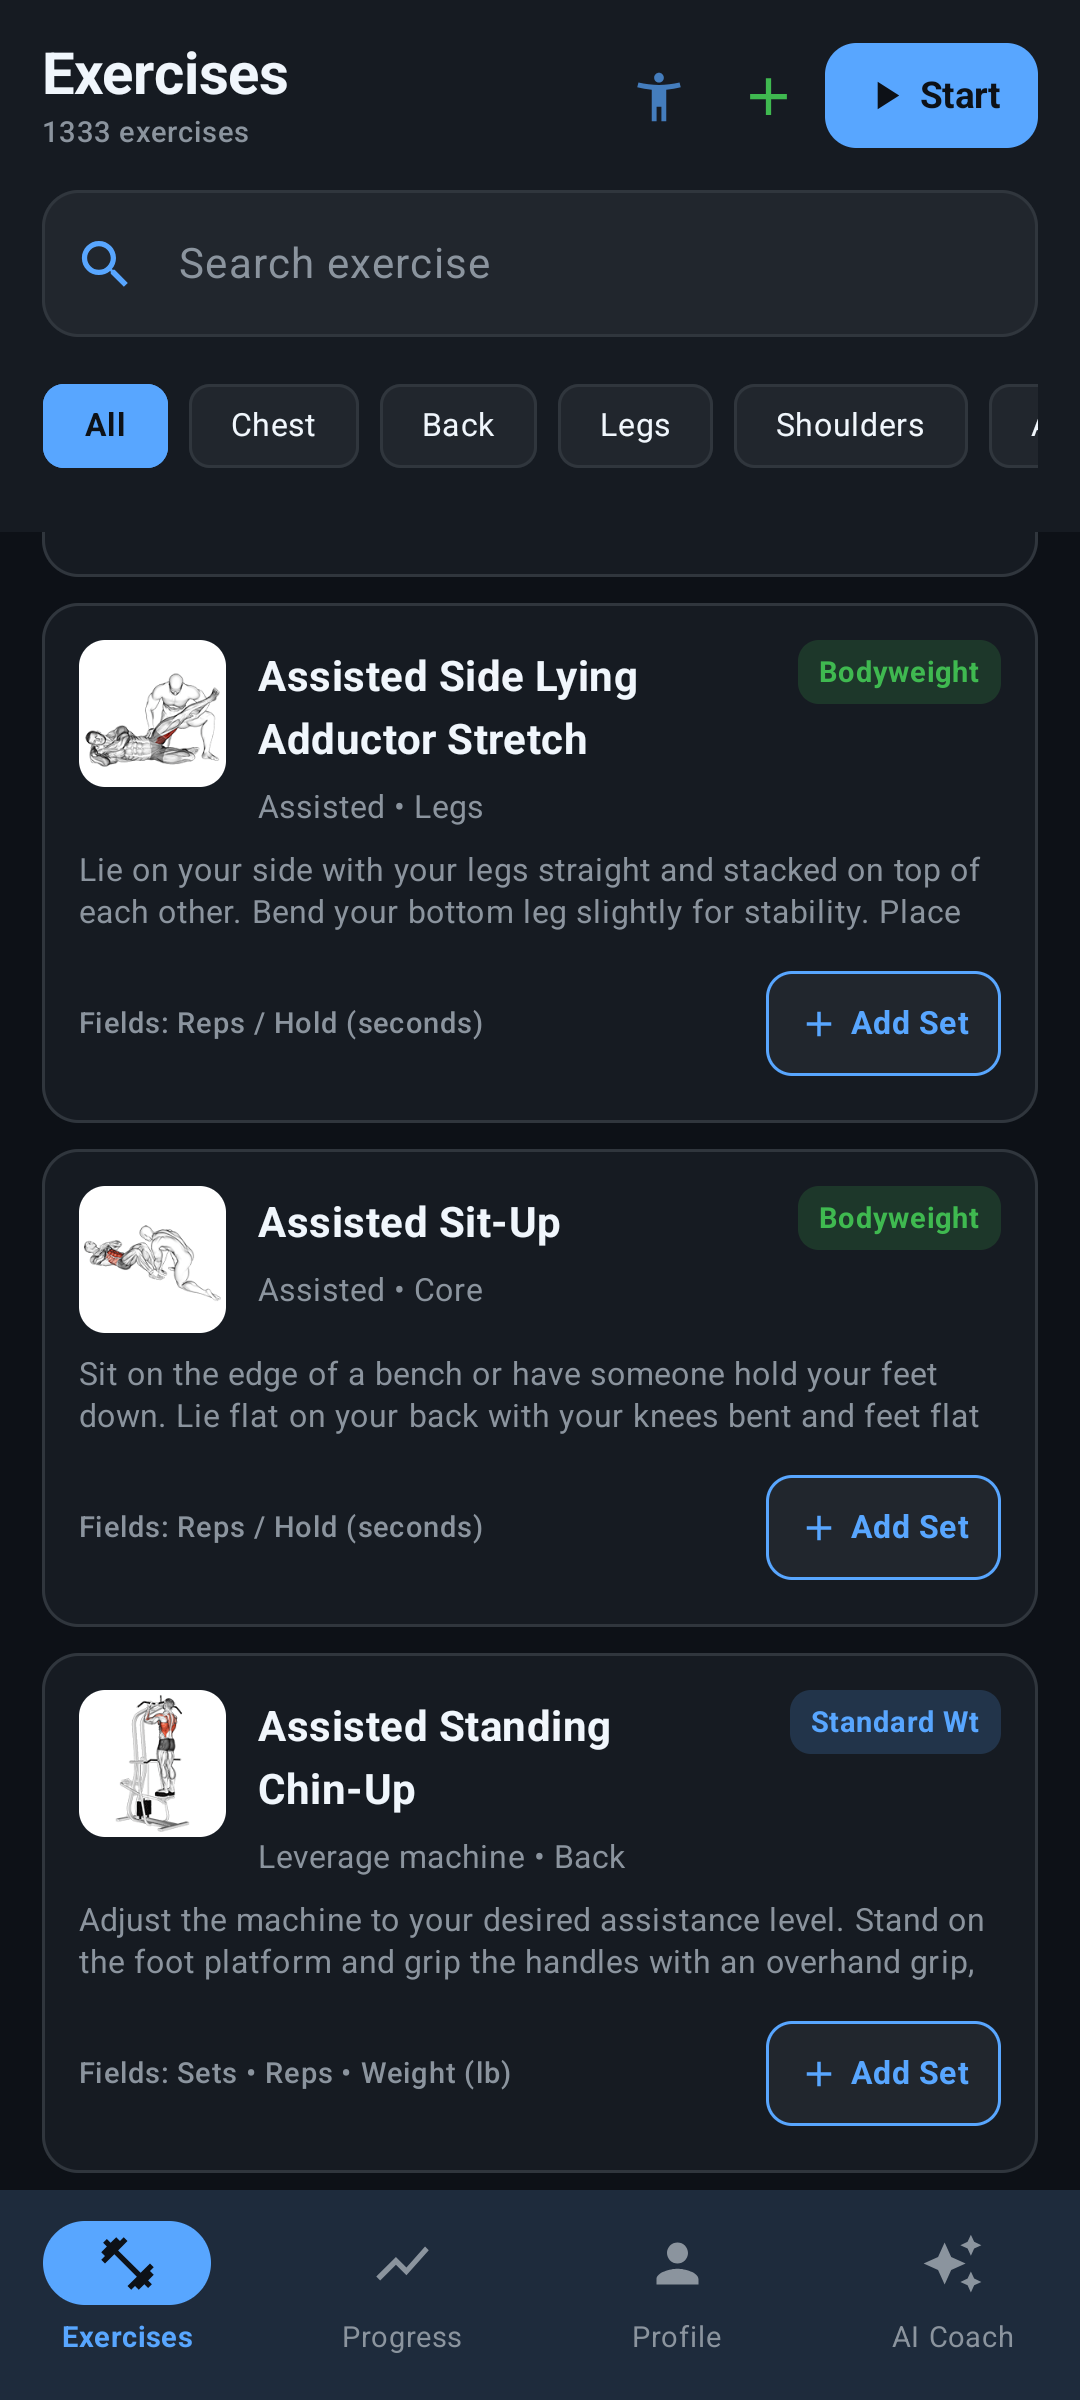
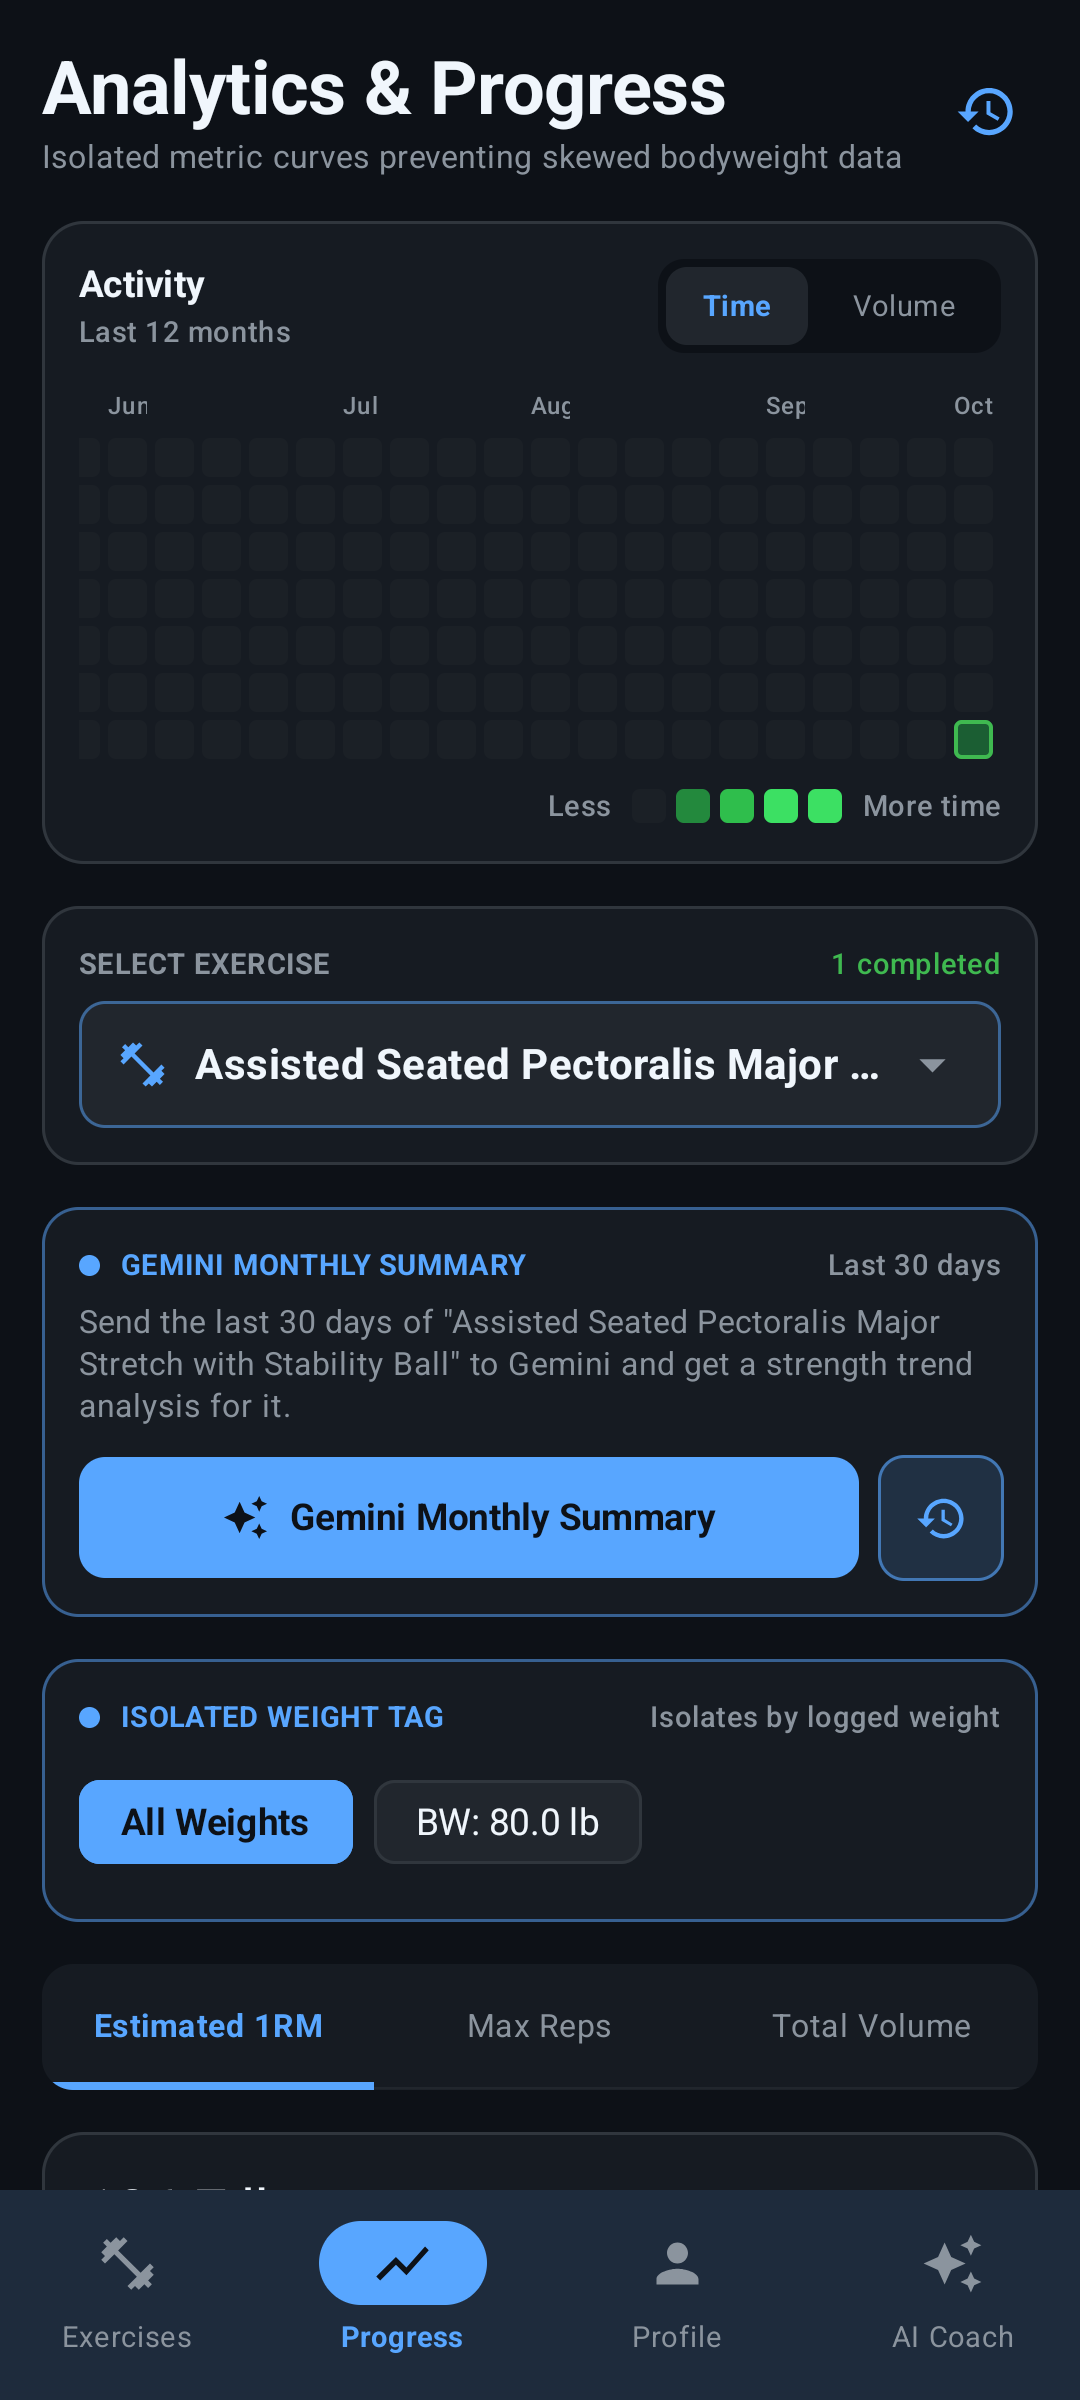
docs: correct README screenshots and document v1.0.1 (#2)
* docs: correct README screenshots and document v1.0.1

- Drop the exercise library screenshot that duplicated the Progress page
  (both frames showed the same list), and use the real Progress tab in its place
- The file named 03-progress-analytics was the exercises list: the nav tap had
  missed. Re-captured after logging a real workout so the charts have data.
- Add a Logging screenshot of a quick workout in progress
- Add the Add Custom Exercise dialog with the media picker, from the '+' icon
- Record v1.0.1 in the changelog and point the download table at its APK

* ci: drop the automated release workflow

A release build needs my-upload-key.jks, which lives on the maintainer's
machine and is deliberately never committed. The workflow therefore always
failed on :app:packageRelease with 'storeFile specifies file
/home/runner/.../my-upload-key.jks which doesn't exist', and it did so on the
v1.0.1 tag push.

A workflow cannot sign with a key it does not have, so this could not be fixed
by configuration. Rather than leave a workflow that fails on every tag, the
release is built and attached by hand, and the Releasing section of
CONTRIBUTING now documents the process that is actually used.

* ci: re-trigger checks

* ci: document why both push and pull_request are needed

* ci: remove the merge conflict markers that broke every CI run

origin/main's ci.yml contained literal '<<<<<<< HEAD' / '=======' / '>>>>>>>'
[…]

diff --git a/README.md b/README.md
@@ -3,16 +3,16 @@
 [![License: CC BY-NC-SA 4.0](https://img.shields.io/badge/License-CC%20BY--NC--SA%204.0-lightgrey.svg)](LICENSE)
 [![Kotlin](https://img.shields.io/badge/Kotlin-1.9-7F52FF.svg)](https://kotlinlang.org)
 [![Android](https://img.shields.io/badge/Android-7.1%2B-3DDC84.svg)](https://developer.android.com)
-[![Release](https://img.shields.io/badge/release-v1.0.0-blue.svg)](https://github.com/JuggyBob/IronPulse/releases)
+[![Release](https://img.shields.io/badge/release-v1.0.1-blue.svg)](https://github.com/JuggyBob/IronPulse/releases)
 
 A dark-themed workout logger for strength training and calisthenics, built for the gym:
 offline by default, no account, no tracking, and a 1,300+ movement catalog that streams its
 animations on demand instead of shipping them in the APK.
 
 <p align="center">
-  <img src="docs/screenshots/01-exercise-library.png" width="30%" alt="Exercise library" />
-  <img src="docs/screenshots/02-exercise-detail.png" width="30%" alt="Exercise detail" />
   <img src="docs/screenshots/03-progress-analytics.png" width="30%" alt="Progress analytics" />
+  <img src="docs/screenshots/02-exercise-detail.png" width="30%" alt="Exercise detail" />
+  <img src="docs/screenshots/06-logging-quick-workout.png" width="30%" alt="Logging a quick workout" />
 </p>
 
 ---
@@ -38,11 +38,19 @@ cached**, not bundled, so the app stays small and an exercise you never open cos
 - Every exercise is editable — including the shipped library — so a row with wrong fields can be
   fixed instead of being lived with. Library edits ask first and survive catalog updates.
 
+<p align="center">
+  <img src="docs/screenshots/06-logging-quick-workout.png" width="45%" alt="A quick workout in progress" />
+</p>
+
 ### Your own exercises
 - Attach a photo or video of your own variation. It replaces the built-in animation, so you see
   *your* movement rather than someone else's.
 - The pick is copied into the app's own storage, so it keeps working after a restart rather than
   expiring with the gallery's permission.
+
+<p align="center">
+  <img src="docs/screenshots/07-create-custom-exercise.png" width="45%" alt="Create a custom exercise, with the media picker" />
+</p>
 
 ### Progress
 - Volume, estimated one-rep max, max reps, training streak and a 12-month activity heatmap.
@@ -152,6 +160,7 @@ Prebuilt APKs are attached to the
 
 | Version | File |
 |---|---|
+| **v1.0.1** | [`IronPulse-v1.0.1.apk`](https://github.com/JuggyBob/IronPulse/releases/download/v1.0.1/IronPulse-v1.0.1.apk) |
 | v1.0.0 | [`IronPulse-v1.0.0.apk`](https://github.com/JuggyBob/IronPulse/releases/download/v1.0.0/IronPulse-v1.0.0.apk) |
 
 Requires Android 7.1 (API 24) or newer.

diff --git a/CONTRIBUTING.md b/CONTRIBUTING.md
@@ -22,6 +22,7 @@ a pull request.
 - [Review process](#review-process)
 - [Adding tests](#adding-tests)
 - [Reporting a security issue](#reporting-a-security-issue)
+- [Releasing](#releasing)
 
 ---
 
@@ -272,3 +273,47 @@ you may be wrong. Report unacceptable behaviour to the maintainer privately.
 ## Reporting a security issue
 
 **Do not open a public issue.** Follow [SECURITY.md](SECURITY.md).
+
+---
+
+## Releasing
+
+Releases are published **manually**, not by CI. This is deliberate.
+
+A release build needs the upload keystore (``my-upload-key.jks``), which lives on the maintainer's
+machine and is never committed -- that is the whole point of it. A workflow cannot sign an APK with a
+key it does not have, so an automated release job can only ever fail on that step. Rather than leave a
+workflow that reddens on every tag, the release is built and attached by hand.
+
+To cut a release:
+
+1. **Bump the version** in ``app/build.gradle.kts`` (``versionCode``, ``versionName``) on its own
+   branch and merge it.
+2. **Tag it.** The tag drives the version:
+
+   ```bash
+   git tag -a v1.0.2 -m "IronPulse v1.0.2"
+   git push origin v1.0.2
+   ```
+
+3. **Build the release APK** locally with the upload key and record its checksum.
+4. **Attach both to the release**, writing the notes from ``CHANGELOG.md``:
+
+   ```bash
+   gh release create v1.0.2 IronPulse-v1.0.2.apk IronPulse-v1.0.2.apk.sha256 \
+     --title "IronPulse v1.0.2" \
+     --notes-file CHANGELOG.md \
+     --verify-tag
+   ```
+
+5. **Update the README** download table and the version badge in the same branch as the bump.
+
+``*.apk`` files are gitignored, so the release artefact is attached to the release and never checked
+into the repository.
+
+CI still guards the code: ``Build``, ``Unit tests``, ``Lint`` and ``Secret scan`` run on every push
+and pull request, so what goes into a release is what passed them.
+
+Supported versions are listed in [SECURITY.md](SECURITY.md). A security release follows the same
+manual process; only the newest release is supported, and older ones stay downloadable for anyone who
+needs them.

diff --git a/CHANGELOG.md b/CHANGELOG.md
@@ -92,11 +92,29 @@ First public release.
 
 ---
 
+## [1.0.1] — 2026-10-11
+
+### Fixed
+- **Choosing "lb" during onboarding had no effect.** The unit chips on the "About you" page wrote to
+  the live preference key but the screen read a different, profile-only key that nothing writes
+  until the form is submitted — so selecting "lb" appeared to do nothing at all. The two keys now
+  agree, and the profile edit dialog's own unit selector writes the live key too, so changing the
+  unit there no longer appears to be ignored.
+- Weights already typed into the onboarding form are converted in place when the unit changes, so
+  switching from lb to kg re-reads the number correctly instead of keeping the stale figure.
+
+### Changed
+- Entering a unit in the "About you" page now also updates the live setting, so the app never ships
+  a profile whose stored unit disagrees with the one the athlete picked.
+
+---
+
 ## [Unreleased Format]
 
 Entries are grouped under **Added**, **Changed**, **Deprecated**, **Removed**, **Fixed** and
 **Security**, each newest first. Versions follow [SemVer](https://semver.org/): bump the patch for a
 fix, the minor for a feature, the major for a breaking change.
 
-[Unreleased]: https://github.com/JuggyBob/IronPulse/compare/v1.0.0...HEAD
+[Unreleased]: https://github.com/JuggyBob/IronPulse/compare/v1.0.1...HEAD
+[1.0.1]: https://github.com/JuggyBob/IronPulse/compare/v1.0.0...v1.0.1
 [1.0.0]: https://github.com/JuggyBob/IronPulse/releases/tag/v1.0.0
